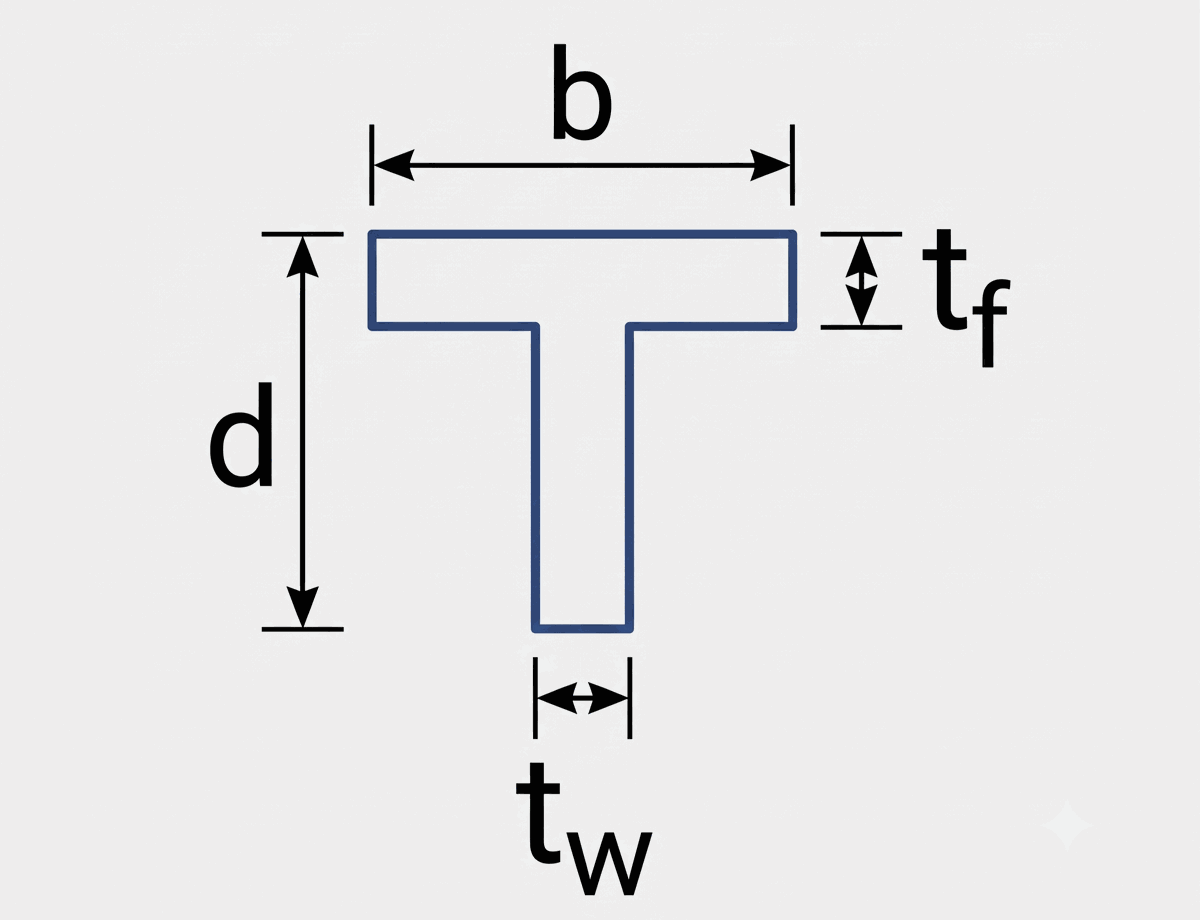
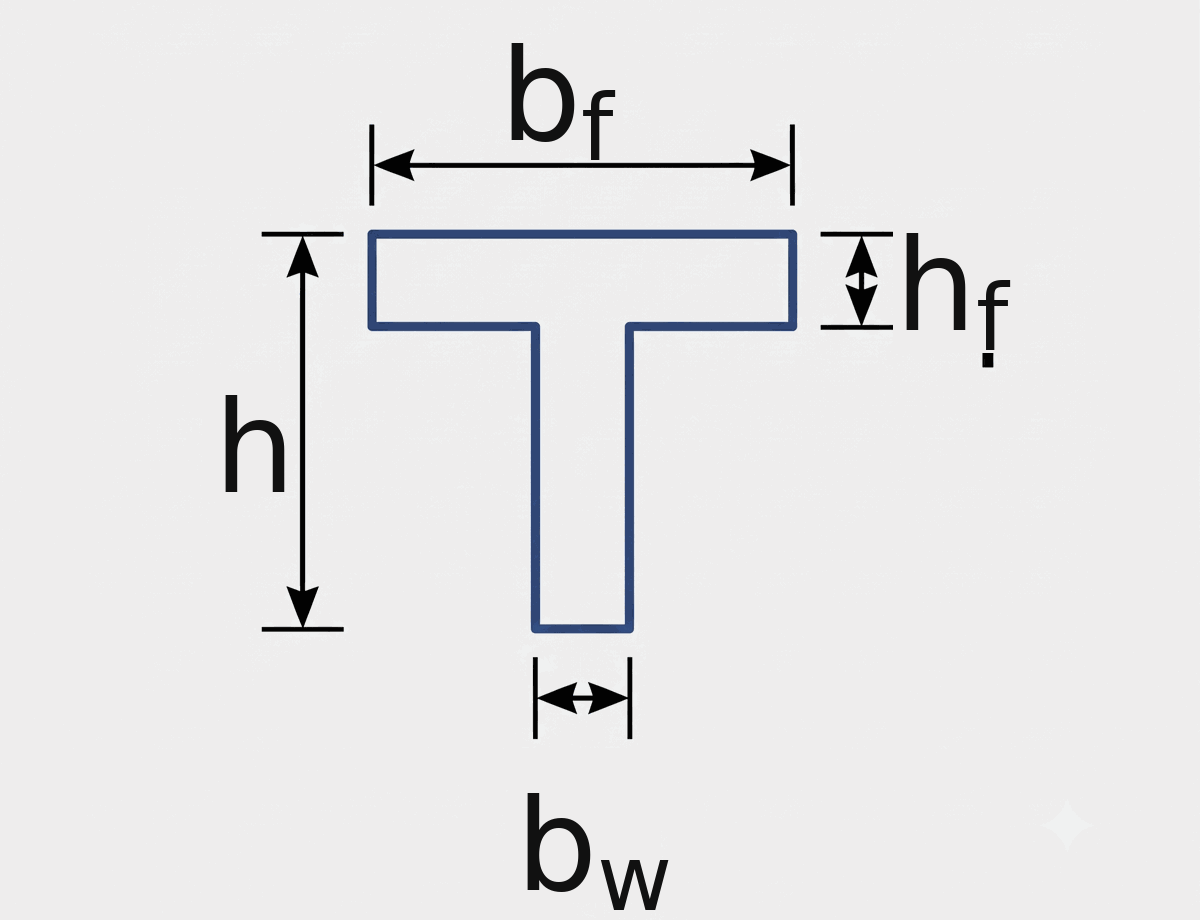
fix(ui): alinha a nomenclatura da geometria ao relatorio (h, bw, bf, hf) (EP-05.6)

diff --git a/ui/viga/form_geometry.py b/ui/viga/form_geometry.py
@@ -198,23 +198,23 @@ def setup_geometria(ctx):
     ctx._on_geom_change = partial(_on_geom_change, ctx)
 
     ctx.h_tf = _styled_textfield(
-        "d (cm)",
+        "h (cm)",
         "",
         on_change=ctx._on_geom_change(ctx.validate_positive_number),
         info_on_click=lambda e: _open_geometria(ctx.page),
-        info_tooltip="Altura total da seção d/h (NBR 6118:2023 — Seção 14.6)",
+        info_tooltip="Altura total da seção h (NBR 6118:2023 — Seção 14.6)",
     )
 
     ctx.bw_tf = _styled_textfield(
-        "tw (cm)",
+        "bw (cm)",
         "",
         on_change=ctx._on_geom_change(ctx.validate_positive_number),
         info_on_click=lambda e: _open_geometria(ctx.page),
-        info_tooltip="Largura da alma tw/bw (NBR 6118:2023 — Seção 13.2.2)",
+        info_tooltip="Largura da alma bw (NBR 6118:2023 — Seção 13.2.2)",
     )
 
     ctx.bf_tf = _styled_textfield(
-        "b (cm)",
+        "bf (cm)",
         "60",
         on_change=ctx.validate_positive_number,
         info_on_click=lambda e: _open_viga_t(ctx.page),
@@ -222,11 +222,11 @@ def setup_geometria(ctx):
     )
 
     ctx.hf_tf = _styled_textfield(
-        "tf (cm)",
+        "hf (cm)",
         "12",
         on_change=ctx.validate_positive_number,
         info_on_click=lambda e: _open_viga_t(ctx.page),
-        info_tooltip="Espessura da mesa hf/tf (NBR 6118:2023 — Seção 14.6.2.2)",
+        info_tooltip="Espessura da mesa hf (NBR 6118:2023 — Seção 14.6.2.2)",
     )
 
     ctx.b1esq_tf = _styled_textfield(

diff --git a/tests/test_entrada_ftool.py b/tests/test_entrada_ftool.py
@@ -262,8 +262,8 @@ def test_calculo_manual_gera_resultados(ui):
     """O botao Calcular da entrada manual produz o modal de resultados."""
     page, screen, _, _ = _build_screen(ui)
 
-    _find_textfield(screen, "d (cm)").value = "70"
-    _find_textfield(screen, "tw (cm)").value = "20"
+    _find_textfield(screen, "h (cm)").value = "70"
+    _find_textfield(screen, "bw (cm)").value = "20"
     _find_textfield(screen, "Barra phi_l (mm)").value = "16"
 
     botao_calcular = _find_button(screen, "Calcular")
